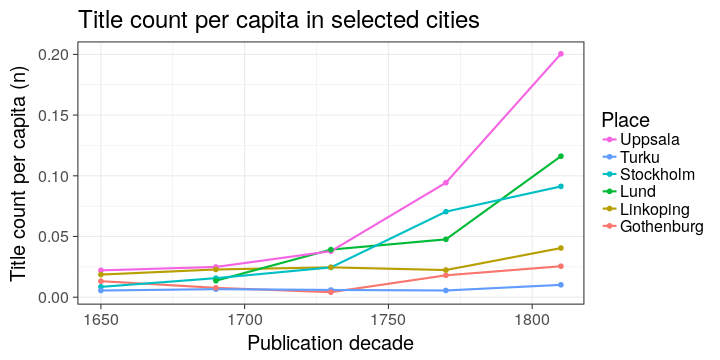
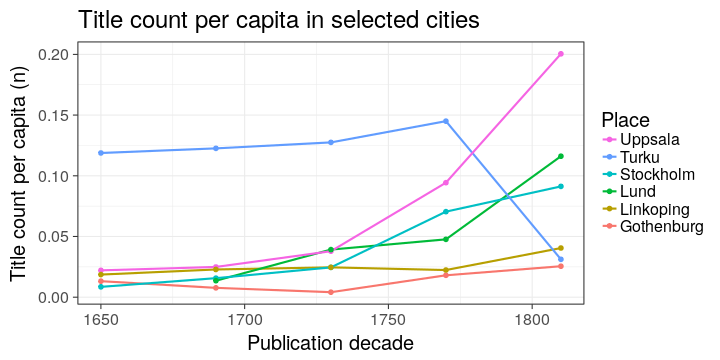
analysis fix

diff --git a/inst/examples/20170201-manuscript.md b/inst/examples/20170201-manuscript.md
@@ -382,11 +382,11 @@ The historical population sizes used in this analysis are shown in this [table](
 |               1730|Stockholm         |      57000| 1400|         0.0245614|
 |               1770|Stockholm         |      69000| 4862|         0.0704638|
 |               1810|Stockholm         |      65474| 5975|         0.0912576|
-|               1650|Turku             |       4184|   23|         0.0054971|
-|               1690|Turku             |       5882|   39|         0.0066304|
-|               1730|Turku             |       4353|   26|         0.0059729|
-|               1770|Turku             |       7952|   44|         0.0055332|
-|               1810|Turku             |      11387|  116|         0.0101871|
+|               1650|Turku             |       4184|  497|         0.1187859|
+|               1690|Turku             |       5882|  721|         0.1225774|
+|               1730|Turku             |       4353|  555|         0.1274983|
+|               1770|Turku             |       7952| 1153|         0.1449950|
+|               1810|Turku             |      11387|  355|         0.0311759|
 |               1650|Uppsala           |       2216|   49|         0.0221119|
 |               1690|Uppsala           |       2487|   62|         0.0249296|
 |               1730|Uppsala           |       3774|  143|         0.0378908|
@@ -410,16 +410,7 @@ The historical population sizes used in this analysis are shown in this [table](
 
 ![plot of chunk abstitlecount](figure/abstitlecount-1.png)
 
-
-```
-## Error in filter_impl(.data, dots): object 'gatherings' not found
-```
-
 ![plot of chunk octavo](figure/octavo-1.png)
-
-```
-## Error in `$<-.data.frame`(`*tmp*`, "title_length", value = integer(0)): replacement has 0 rows, data has 1192
-```
 
 ```
 ## Error in summarise_impl(.data, dots): object 'title_length' not found
